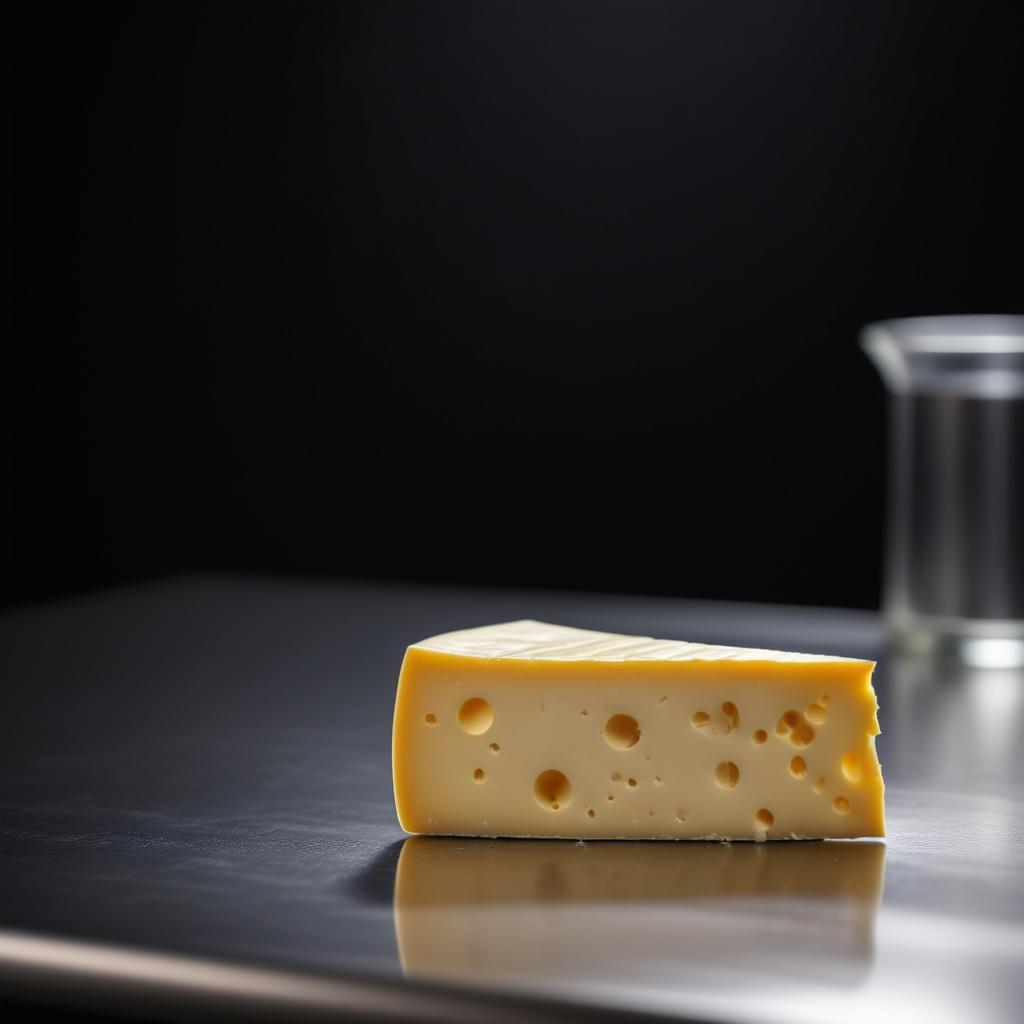
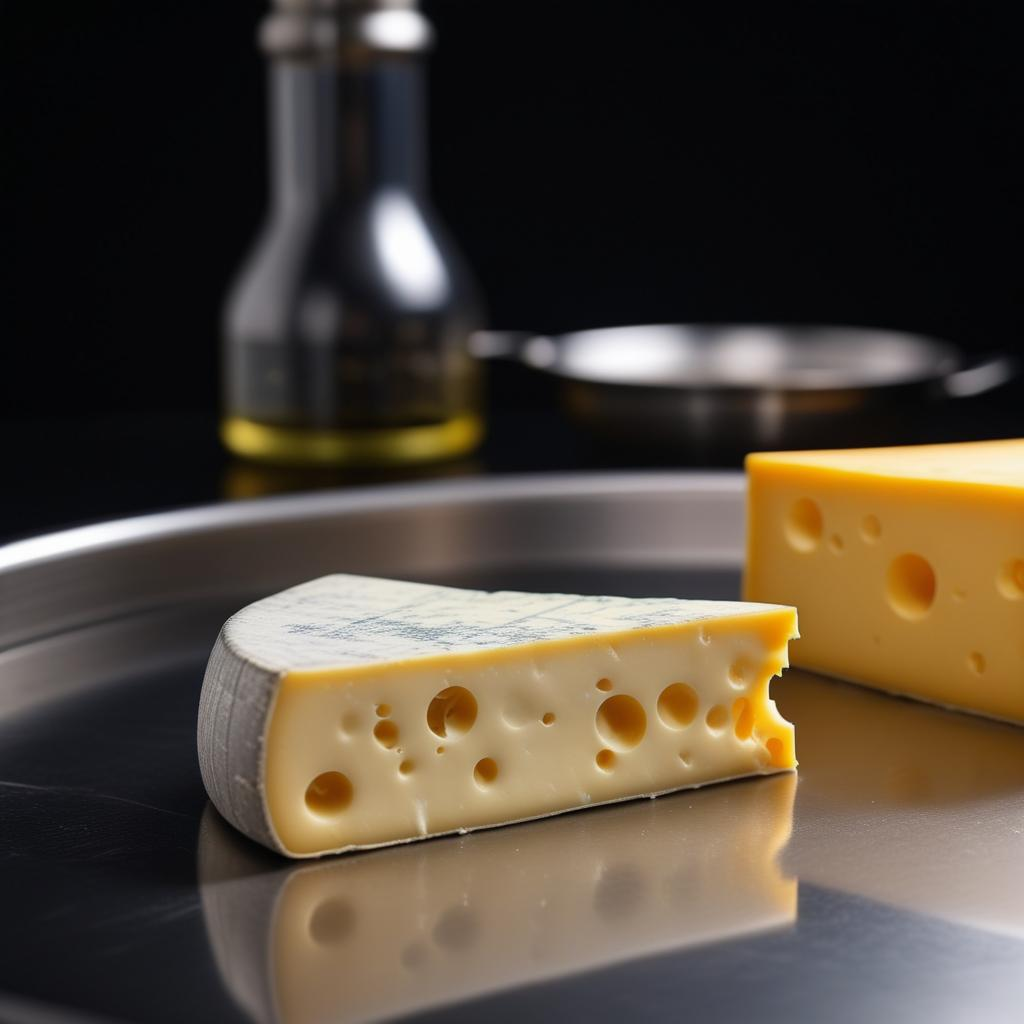
'

diff --git a/website/public/offerta.html b/website/public/offerta.html
@@ -30,7 +30,7 @@
                 <span style="text-align: center; display: inline-block; margin-bottom: 16px;">Sanifica la tua azienda
                     alimentare con:</span>
                 <h1>EcoFood Sanity</h1>
-                <p>
+                <p style="text-align: left;">
                     Il sistema di sanificazione ad ozono progettato per eliminare microrganismi patogeni (batteri,
                     muffe, virus, ecc...) nell'industria alimentare, senza lasciare residui chimici tossici sugli
                     alimenti.
@@ -58,27 +58,25 @@
         </section>
         <section class="container-lg" style="margin-top: 48px;">
             <div style="margin-bottom: 24px;">
-                <h3 style="font-size: 36px; margin-bottom: 16px; text-align: center;">Con
-                    Tecnologia Aurora O3</h3>
-                <p style="text-align: center;">
-                    Aurora O3 è una apparecchiatura sviluppata da Ozonogroup per l'industria alimentare, la
-                    quale ha standard di igiene superiori ad altre industrie. I componenti principali di questa
-                    attrezzatura specializzata sono elencati qui sotto.
+                <h3 style="font-size: 36px; margin-bottom: 16px; text-align: center;">+
+                    Tecnologia Aurora</h3>
+                <p style="">
+                    Aurora è una tecnologia sviluppata da Ozonogroup per l'industria alimentare, la
+                    quale richiede standard di igiene superiori ad altre industrie. I componenti principali di questa
+                    tecnologia sono elencati qui sotto.
                 </p>
             </div>
             <div style="display: flex; gap: 48px;">
                 <div style="flex: 1;">
                     <img style="border-radius: 10px; height: 400px; object-fit: cover;"
-                        src="/immagini/sanificazione-bio.jpg">
+                        src="/immagini/ozono-ecosostenibile.jpg">
                 </div>
                 <div style="flex: 1;">
-                    <h3 style="font-size: 24px; margin-bottom: 8px;">Produzione Ecosostenibile</h3>
-                    <p>Aurora 03 utilizza componenti elettrici ottimizzati per il risparmio energetico.</p>
+                    <h3 style="font-size: 24px; margin-bottom: 8px;">Generatori Ecosostenibili</h3>
+                    <p>I generatori utilizzati da Aurora producono elevate quantita di ozono e consumano solo una minima quanita di energia.</p>
                     <ul>
                         <li>
-                            I genereatori di ozono inclusi nell'attrezzatura producono elevate quantità di ozono
-                            utilizzando meno di 100 Watt, contrario ai sistemi termici che richiedono diversi
-                            KWatt (con un risparmio medio superiore al 95%).
+                            Questi generatori usano meno di 100 Watt, al contrario dei sistemi termici che richiedono diversi KWatt (con un risparmio medio superiore al 95%).
                         </li>
                         <li>
                             - AURORA non genera sottoprodotti durante la produzione di ozono, quindi
@@ -121,7 +119,7 @@
             <div style="display: flex; gap: 48px; margin-top: 48px;">
                 <div style="flex: 1;">
                     <img style="border-radius: 10px; height: 400px; object-fit: cover;"
-                        src="/immagini/automatizzato.jpg">
+                        src="/immagini/ozono-automatizzato.jpg">
                 </div>
                 <div style="flex: 1;">
                     <h3 style="font-size: 24px; margin-bottom: 16px;">Automatizzato</h3>
@@ -168,7 +166,7 @@
                     </ul>
                 </div>
                 <div style="flex: 1;">
-                    <img style="border-radius: 10px; height: 400px; object-fit: cover;" src="/immagini/regolabile.jpg">
+                    <img style="border-radius: 10px; height: 400px; object-fit: cover;" src="/immagini/ozono-regolabile.jpg">
                 </div>
             </div>
         </section>

diff --git a/website/images_generate.py b/website/images_generate.py
@@ -89,7 +89,7 @@ gen_home_pathogen(eng='molds', ita='muffe')
 def gen_home_sectors_dairy(ita_slug):
     slug = ita_slug.strip().lower().replace(' ', '-')
     out_filepath = f'{website_folderpath}/immagini/{slug}.jpg'
-    # if os.path.exists(out_filepath): return
+    if os.path.exists(out_filepath): return
     prompt = f'''
         close-up of cheese,
         on a stainless steel table,
@@ -106,7 +106,7 @@ def gen_home_sectors_dairy(ita_slug):
 def gen_home_sectors_meat(ita_slug):
     slug = ita_slug.strip().lower().replace(' ', '-')
     out_filepath = f'{website_folderpath}/immagini/{slug}.jpg'
-    # if os.path.exists(out_filepath): return
+    if os.path.exists(out_filepath): return
     prompt = f'''
         close-up of meat,
         on a stainless steel table,
@@ -123,7 +123,7 @@ def gen_home_sectors_meat(ita_slug):
 def gen_home_sectors_vegetable(ita_slug):
     slug = ita_slug.strip().lower().replace(' ', '-')
     out_filepath = f'{website_folderpath}/immagini/{slug}.jpg'
-    # if os.path.exists(out_filepath): return
+    if os.path.exists(out_filepath): return
     prompt = f'''
         close-up of cabbage,
         on a stainless steel table,
@@ -221,6 +221,80 @@ def gen_home_benefit_certified(ita_slug):
     image.save(out_filepath)
 
 gen_home_benefit_certified(ita_slug='ozono-sicuro')
+
+################################################
+# ;treatments
+################################################
+def gen_offer_eco(ita_slug, gen_num=1):
+    slug = ita_slug.strip().lower().replace(' ', '-')
+    out_filepath = f'{website_folderpath}/immagini/{slug}.jpg'
+    # if os.path.exists(out_filepath): return
+    prompt = f'''
+        an ozone reactor,
+        science style, 
+        black background,
+        depth of field, bokeh,
+        high resolution,
+        cinematic,
+    '''
+    print(prompt)
+    if gen_num == 1:
+        image = pipe(prompt=prompt, width=1024, height=1024, num_inference_steps=30, guidance_scale=7.0).images[0]
+        image.save(out_filepath)
+    elif gen_num > 1:
+        for i in range(gen_num):
+            image = pipe(prompt=prompt, width=1024, height=1024, num_inference_steps=30, guidance_scale=7.0).images[0]
+            image.save(f'{website_folderpath}/immagini/{slug}-{i}.jpg')
+
+def gen_offer_clean(ita_slug):
+    slug = ita_slug.strip().lower().replace(' ', '-')
+    out_filepath = f'{website_folderpath}/immagini/{slug}.jpg'
+    if os.path.exists(out_filepath): return
+    prompt = f'''
+        oxygen,
+        science style, 
+        depth of field, bokeh,
+        high resolution,
+        cinematic,
+    '''
+    print(prompt)
+    image = pipe(prompt=prompt, width=1024, height=1024, num_inference_steps=30, guidance_scale=7.0).images[0]
+    image.save(out_filepath)
+
+def gen_offer_automation(ita_slug):
+    slug = ita_slug.strip().lower().replace(' ', '-')
+    out_filepath = f'{website_folderpath}/immagini/{slug}.jpg'
+    if os.path.exists(out_filepath): return
+    prompt = f'''
+        midshot of a black circuit board,
+        science style, 
+        depth of field, bokeh,
+        high resolution,
+        cinematic,
+    '''
+    print(prompt)
+    image = pipe(prompt=prompt, width=1024, height=1024, num_inference_steps=30, guidance_scale=7.0).images[0]
+    image.save(out_filepath)
+
+def gen_offer_adjustable(ita_slug):
+    slug = ita_slug.strip().lower().replace(' ', '-')
+    out_filepath = f'{website_folderpath}/immagini/{slug}.jpg'
+    if os.path.exists(out_filepath): return
+    prompt = f'''
+        midshot of knobs on black industrial equipment,
+        science style, 
+        depth of field, bokeh,
+        high resolution,
+        cinematic,
+    '''
+    print(prompt)
+    image = pipe(prompt=prompt, width=1024, height=1024, num_inference_steps=30, guidance_scale=7.0).images[0]
+    image.save(out_filepath)
+
+gen_offer_eco(ita_slug='ozono-ecosostenibile', gen_num=10)
+gen_offer_automation(ita_slug='ozono-automatizzato')
+gen_offer_adjustable(ita_slug='ozono-regolabile')
+gen_offer_clean(ita_slug='ozono-pulito')
 
 quit()
 
